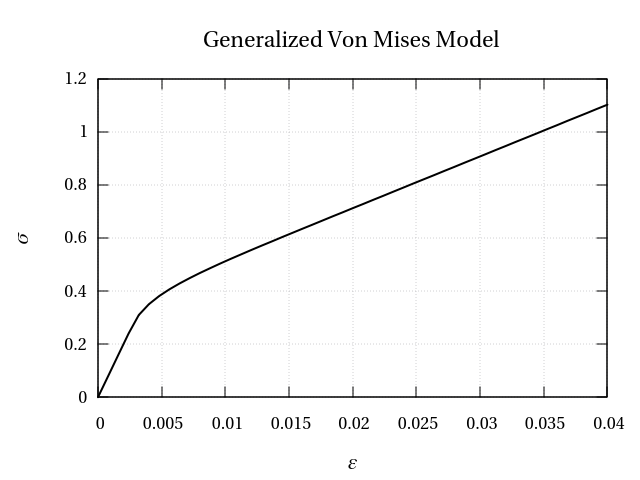
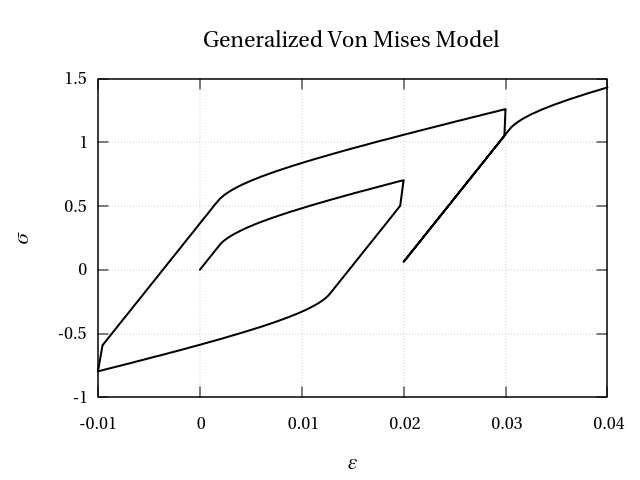
feat: make plasticity plots more dramatic

diff --git a/src/inelastic_models.cpp b/src/inelastic_models.cpp
@@ -23,18 +23,26 @@ void plot(auto& data, std::string titulo) {
 int main() {
     auto vm = [] {
         common::MaterialProperties mat_p{100, 0.21};
-        vonmises::ModelParams mod_p{0.4 * sqrt(2.0 / 3.0), 20, 0};
+        vonmises::ModelParams mod_p{0.4 * sqrt(2.0 / 3.0), 10, 10};
 
-        auto hist = common::create_hist({{0, 0.04, 50}});
+        auto hist = common::create_hist({{0, 0.02, 90},
+                                         {0.02, -0.01, 90},
+                                         {-0.01, 0.03, 90},
+                                         {0.03, 0.02, 90},
+                                         {0.02, 0.04, 90}});
         auto res = vonmises::run(mat_p, mod_p, hist);
         plot(res, "Von Mises Model");
     };
     auto vm_generalized = [] {
         common::MaterialProperties mat_p{100, 0.21};
-        vonmises_generalized::ModelParams mod_p{0.3 * sqrt(2.0 / 3.0), 20, 0,
-                                                0.1 * sqrt(2.0 / 3.0), 20};
+        vonmises_generalized::ModelParams mod_p{0.2 * sqrt(2.0 / 3.0), 10, 10,
+                                                0.2 * sqrt(2.0 / 3.0), 5};
 
-        auto hist = common::create_hist({{0, 0.04, 50}});
+        auto hist = common::create_hist({{0, 0.02, 90},
+                                         {0.02, -0.01, 90},
+                                         {-0.01, 0.03, 90},
+                                         {0.03, 0.02, 90},
+                                         {0.02, 0.04, 90}});
         auto res = vonmises_generalized::run(mat_p, mod_p, hist);
 
         plot(res, "Generalized Von Mises Model");
